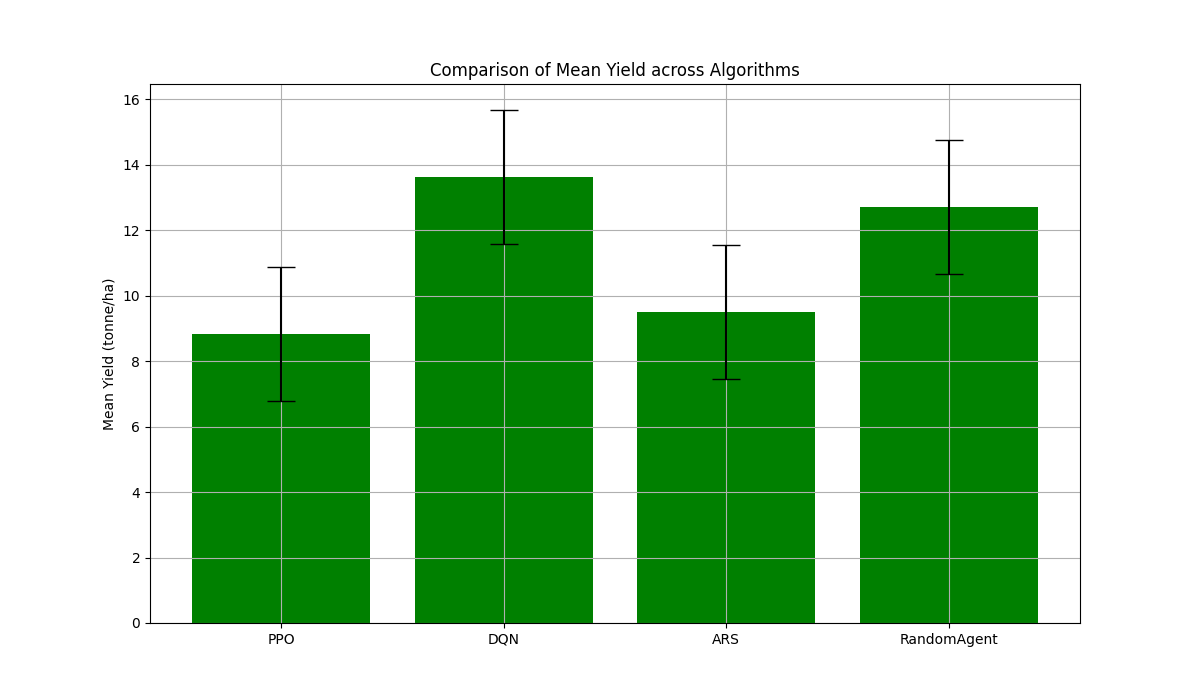
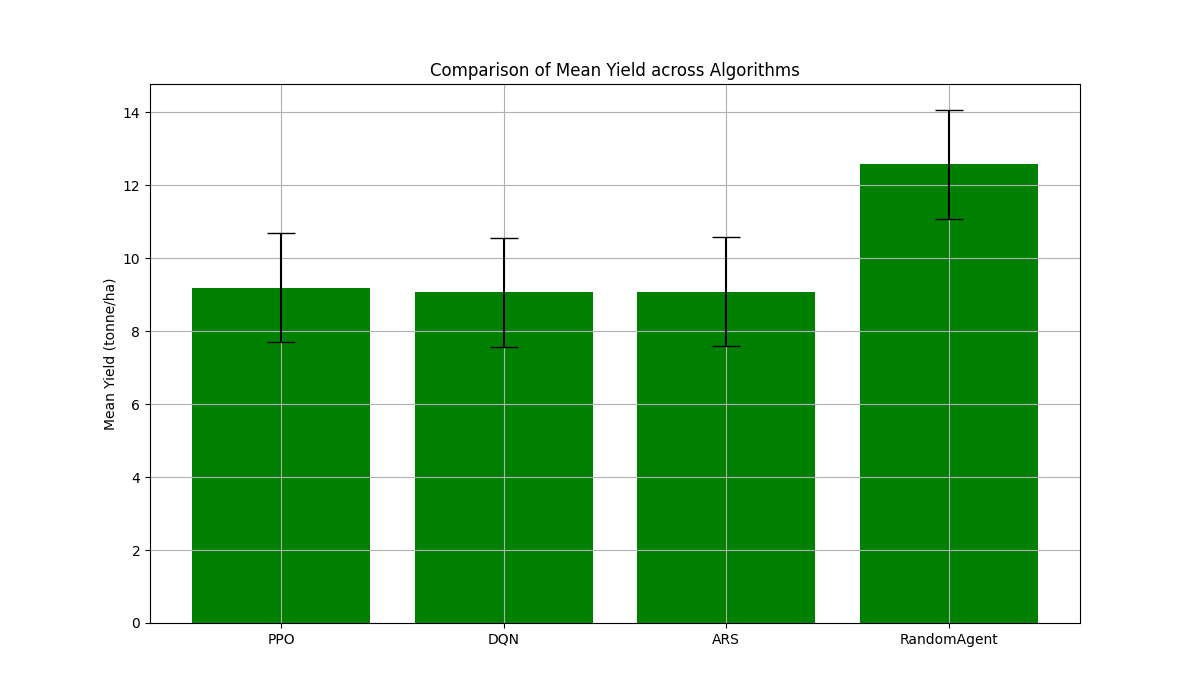
decaying factor reward irrigation

diff --git a/aquacroprice/envs/rice.py b/aquacroprice/envs/rice.py
@@ -47,7 +47,7 @@ class Rice(gym.Env):
             self.soil = soil
 
         # Define observation space: Includes weather-related observations
-        self.observation_space = spaces.Box(low=-np.inf, high=np.inf, shape=(14,), dtype=np.float32)
+        self.observation_space = spaces.Box(low=-np.inf, high=np.inf, shape=(9,), dtype=np.float32)
         
         self.action_depths = [0, 25]
         self.action_space = spaces.Discrete(len(self.action_depths))  # Discrete action space with 6 actions
@@ -103,9 +103,9 @@ class Rice(gym.Env):
     def _get_obs(self):
         cond = self.model._init_cond
 
-        total_precipitation_last_7_days = self._get_total_precipitation_last_7_days()
-        cum_min_temp_last_7_days = self._get_cumulative_temp_last_7_days("MinTemp")
-        cum_max_temp_last_7_days = self._get_cumulative_temp_last_7_days("MaxTemp")
+        # total_precipitation_last_7_days = self._get_total_precipitation_last_7_days()
+        # cum_min_temp_last_7_days = self._get_cumulative_temp_last_7_days("MinTemp")
+        # cum_max_temp_last_7_days = self._get_cumulative_temp_last_7_days("MaxTemp")
         prev_day_min_temp = self._get_previous_day_value("MinTemp")
         prev_day_max_temp = self._get_previous_day_value("MaxTemp")
         prev_day_precipitation = self._get_previous_day_value("Precipitation")
@@ -114,14 +114,12 @@ class Rice(gym.Env):
             cond.age_days,
             cond.canopy_cover,
             cond.biomass,
-            cond.harvest_index,
-            cond.DryYield,
             cond.z_root,
             cond.depletion,
             cond.taw,
-            total_precipitation_last_7_days,
-            cum_min_temp_last_7_days,
-            cum_max_temp_last_7_days,
+            # total_precipitation_last_7_days,
+            # cum_min_temp_last_7_days,
+            # cum_max_temp_last_7_days,
             prev_day_min_temp,
             prev_day_max_temp,
             prev_day_precipitation,
@@ -152,7 +150,7 @@ class Rice(gym.Env):
     def step(self, action):
         # Increment the day counter
         self.day_counter += 1
-
+        
         # Check if 7 days have passed since the last action
         if self.day_counter >= self.days_to_irr:
             self.day_counter = 0
@@ -169,18 +167,13 @@ class Rice(gym.Env):
 
         # Initialize reward and check if first irrigation has been done
         reward = 0
-        if not hasattr(self, 'first_irrigation_done'):
-            self.first_irrigation_done = False  # Initialize if not already set
 
-        # First irrigation reward and subsequent penalties
+        # Add a decaying reward based on the irrigation depth
         if depth > 0:
-            if not self.first_irrigation_done:
-                reward += 200  # Increased reward for the first irrigation
-                self.first_irrigation_done = True
-                print("First Irrigation: Reward 200 applied.")
-            else:
-                reward -= 10  # Penalty for subsequent irrigations
-                print("Subsequent Irrigation: Penalty -10 applied.")
+            decay_factor = 0.95  # A decay factor, you can adjust this value
+            irrigation_penalty = depth * decay_factor ** self.model._clock_struct.time_step_counter
+            reward += irrigation_penalty
+            print(f"Irrigation Depth: {depth}, Irrigation Reward: {irrigation_penalty}")
 
         # Check if the model is finished (season ends)
         terminated = self.model._clock_struct.model_is_finished
@@ -196,14 +189,9 @@ class Rice(gym.Env):
             dry_yield = self.model._outputs.final_stats['Dry yield (tonne/ha)'].mean()
             total_irrigation = self.model._outputs.final_stats['Seasonal irrigation (mm)'].mean()
 
-            if total_irrigation == 0:
-                reward -= 500  # No irrigation penalty
-                print("Penalty Applied for Zero Irrigation: -500")
-            else:
-                # Base reward with yield cubed and irrigation penalty reduced to 15x
-                final_reward = ((dry_yield + 1) ** 3) - ((total_irrigation + 1) * 15)
-                reward += final_reward  # Add the final reward to the step reward
-                print(f"Base Final Reward: {final_reward}")
+            final_reward = ((dry_yield + 1) ** 3) - ((total_irrigation + 1) * 10)
+            reward += final_reward  # Add the final reward to the step reward
+            print(f"Base Final Reward: {final_reward}")
 
             # Print final results
             print(f"Dry Yield: {dry_yield}")
@@ -217,6 +205,7 @@ class Rice(gym.Env):
             self.first_irrigation_done = False
 
         return next_obs, reward, terminated, truncated, info
+
 
 
 
